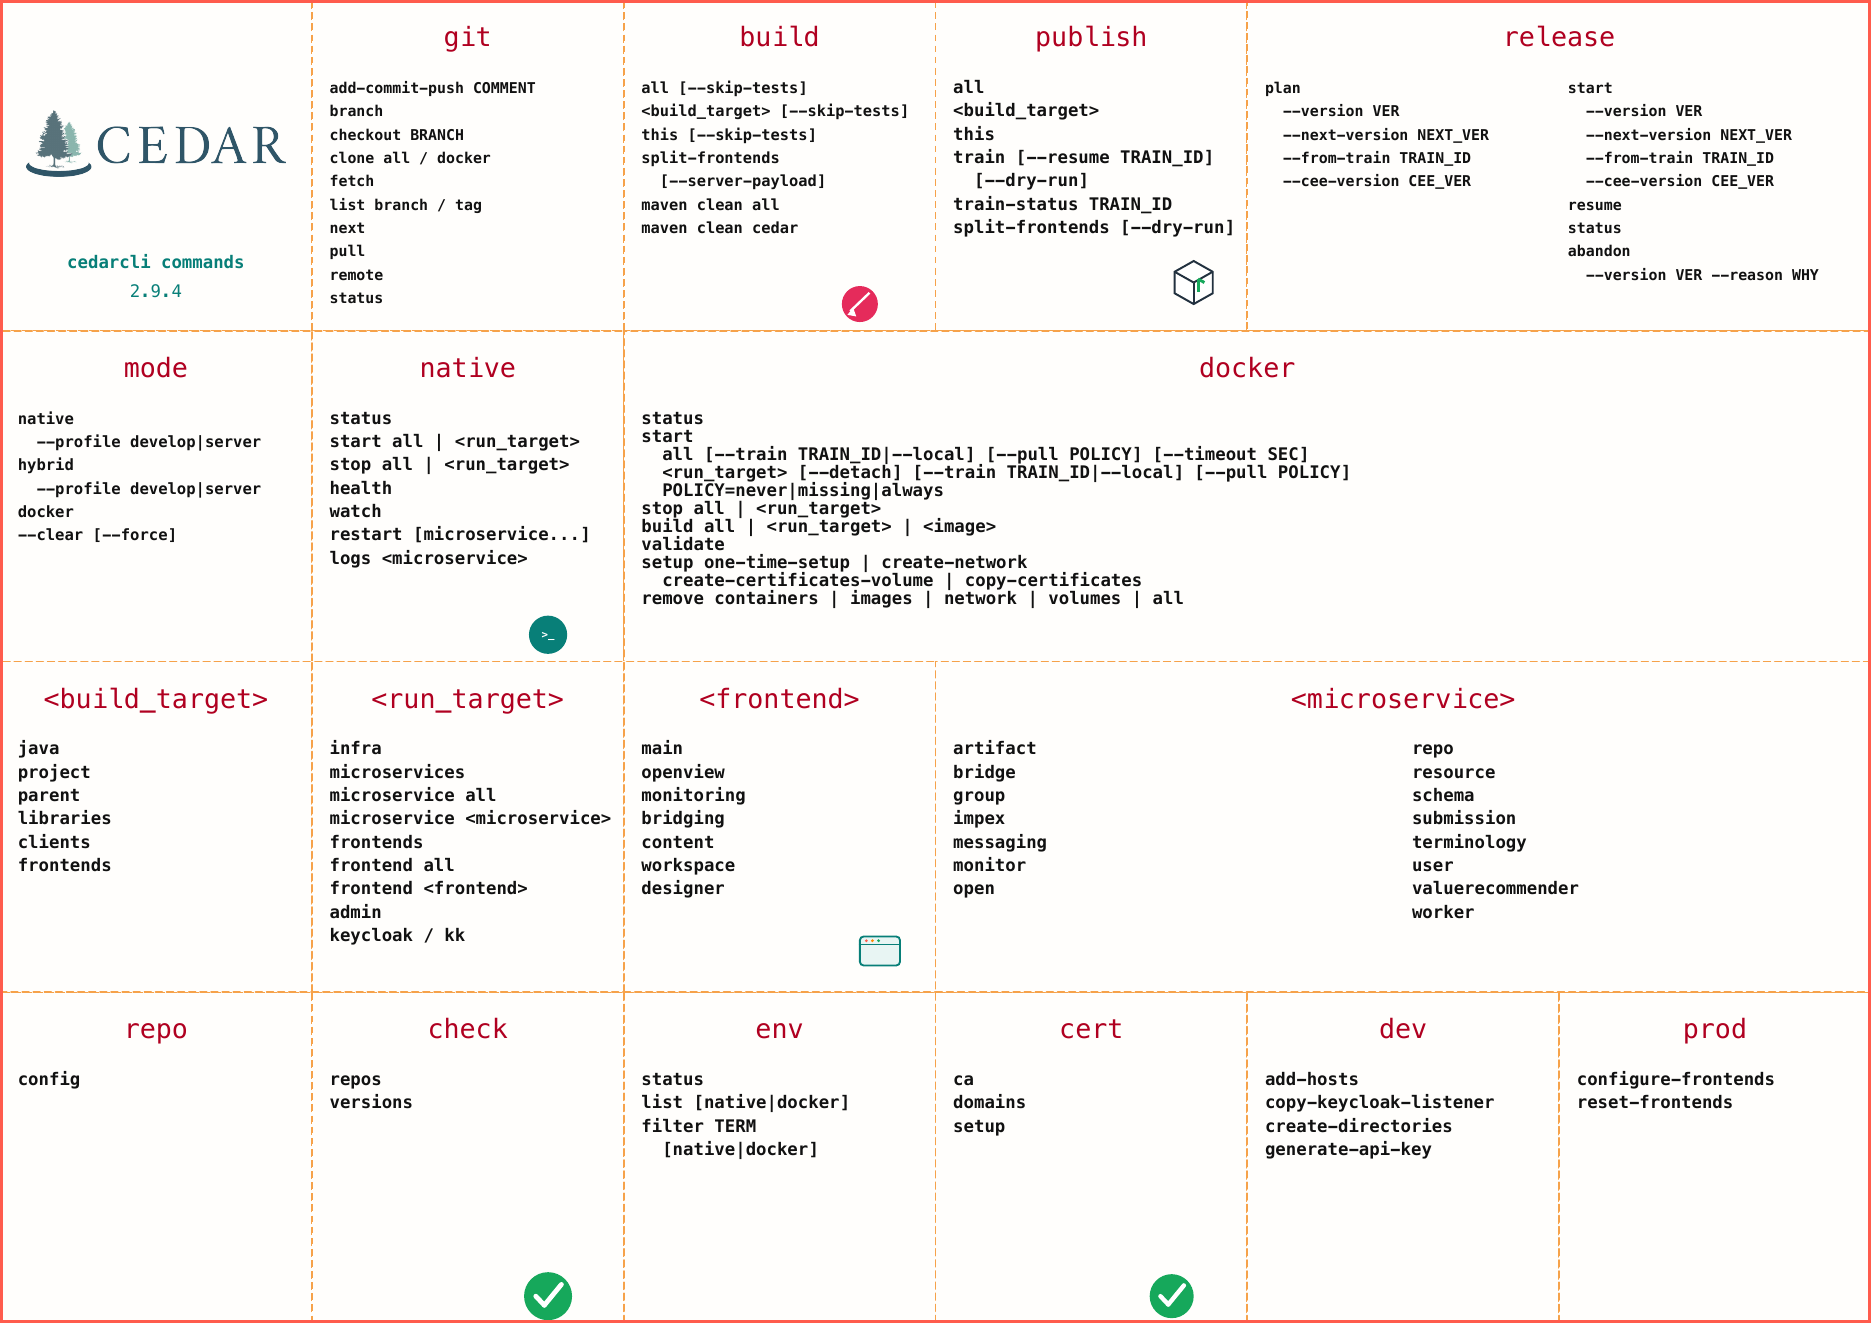
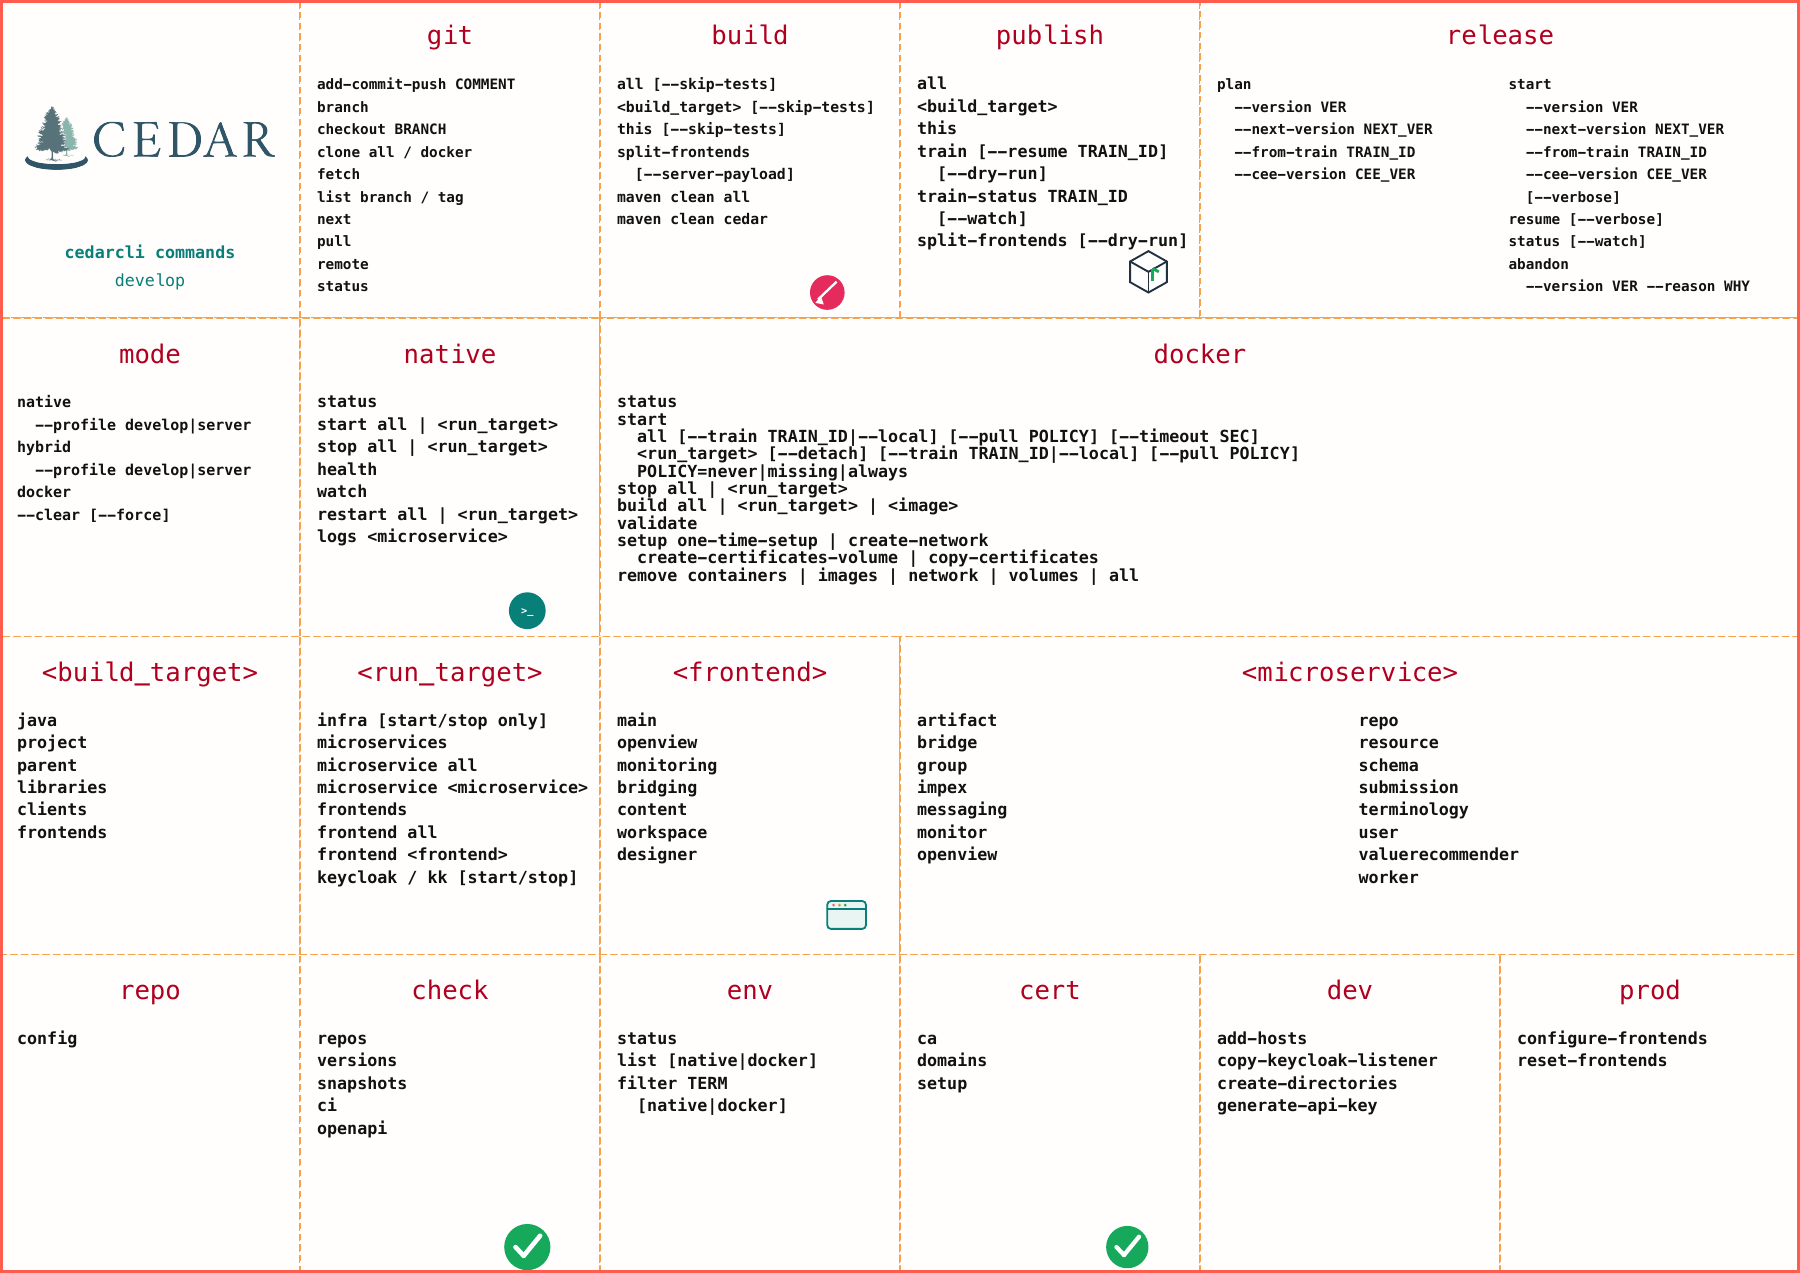
Align native restart targets with start and stop

diff --git a/tests/test_restart_targets.py b/tests/test_restart_targets.py
@@ -1,0 +1,67 @@
+import unittest
+from types import SimpleNamespace
+from unittest.mock import patch
+
+from typer.testing import CliRunner
+
+from org.metadatacenter import native
+from org.metadatacenter.model.CedarMode import CedarMode
+from org.metadatacenter.util.ModeManager import ModeManager
+from org.metadatacenter.worker.NativeWorker import NativeWorker
+
+
+class RestartTargetsTest(unittest.TestCase):
+    def invoke(self, args, expected, mode=CedarMode.NATIVE, code=0):
+        with patch.object(ModeManager, 'require_surface', return_value=mode), \
+                patch.object(NativeWorker, 'restart', return_value=SimpleNamespace(returncode=code)) as worker:
+            result = CliRunner().invoke(native.app, ['restart', *args])
+            if expected is None:
+                self.assertNotEqual(0, result.exit_code, result.output)
+                worker.assert_not_called()
+            else:
+                self.assertEqual(code, result.exit_code, result.output)
+                self.assertEqual(tuple(expected), tuple(worker.call_args.args[0]))
+                worker.assert_called_once()
+
+    def test_each_service_has_the_same_grouped_name_as_start(self):
+        for name in NativeWorker.MICROSERVICES:
+            self.invoke(['microservice', name], [name])
+        for name in NativeWorker.FRONTENDS:
+            self.invoke(['frontend', name.removeprefix('ui-')], [name])
+        self.invoke(['microservice', 'open'], ['openview'])
+
+    def test_group_targets_and_no_argument_compatibility(self):
+        for args in ([], ['all']):
+            self.invoke(args, [])
+        for args in (['microservices'], ['microservice', 'all']):
+            self.invoke(args, NativeWorker.MICROSERVICES)
+        for args in (['frontends'], ['frontend', 'all']):
+            self.invoke(args, NativeWorker.FRONTENDS)
+        self.invoke(['frontend', 'split-frontends'], ['ui-workspace', 'ui-designer'])
+        self.invoke(['repo', 'ui-openview'], ['repo', 'ui-openview'])
+
+    def test_hybrid_allows_only_frontends(self):
+        for args in ([], ['all'], ['microservices'], ['microservice', 'repo'], ['repo'],
+                     ['ui-openview', 'repo']):
+            self.invoke(args, None, CedarMode.HYBRID)
+        self.invoke(['frontend', 'openview'], ['ui-openview'], CedarMode.HYBRID)
+        self.invoke(['frontends'], NativeWorker.FRONTENDS, CedarMode.HYBRID)
+        self.invoke(['ui-workspace'], ['ui-workspace'], CedarMode.HYBRID)
+
+    def test_bad_targets_and_trailing_arguments_never_restart_anything(self):
+        for args in (['invalid'], ['repo', 'invalid'], ['frontend', 'repo'],
+                     ['microservice', 'ui-openview'], ['microservice', 'repo', 'invalid'],
+                     ['infra'], ['backends'], ['frontend'], ['microservice']):
+            self.invoke(args, None)
+
+    def test_failure_status_propagates(self):
+        self.invoke(['microservice', 'repo'], ['repo'], code=7)
+
+    def test_help_exposes_groups_without_executing_a_restart(self):
+        with patch.object(ModeManager, 'require_surface', return_value=CedarMode.NATIVE), \
+                patch.object(NativeWorker, 'restart') as worker:
+            for args in (['--help'], ['microservice', '--help'], ['frontend', '--help']):
+                result = CliRunner().invoke(native.app, ['restart', *args])
+                self.assertEqual(0, result.exit_code, result.output)
+                self.assertNotIn('legacy', result.output)
+            worker.assert_not_called()

diff --git a/org/metadatacenter/restart.py b/org/metadatacenter/restart.py
@@ -1,0 +1,90 @@
+"""Native application restart targets, with the original flat syntax retained."""
+from typing import List
+
+import typer
+from typer.core import TyperGroup
+
+from org.metadatacenter.model.CedarMode import CedarMode
+from org.metadatacenter.util.CliResult import exit_on_failure
+from org.metadatacenter.util.ModeManager import ModeError, ModeManager
+from org.metadatacenter.worker.NativeWorker import NativeWorker
+
+
+class RestartGroup(TyperGroup):
+    def resolve_command(self, ctx, args):
+        # Route the whole legacy list together so a later invalid name cannot
+        # cause a partially executed restart. Grouped targets use normal parsing.
+        if args and args[0] in (*NativeWorker.MICROSERVICES, *NativeWorker.FRONTENDS):
+            return 'legacy', self.get_command(ctx, 'legacy'), args
+        return super().resolve_command(ctx, args)
+
+
+app = typer.Typer(cls=RestartGroup, invoke_without_command=True, no_args_is_help=False)
+microservices = typer.Typer(no_args_is_help=True)
+frontends = typer.Typer(no_args_is_help=True)
+app.add_typer(microservices, name='microservice', help='Restart one Java microservice.')
+app.add_typer(frontends, name='frontend', help='Restart one frontend development server.')
+
+
+def _restart(services):
+    known = set(NativeWorker.MICROSERVICES) | set(NativeWorker.FRONTENDS)
+    unknown = [name for name in services if name not in known]
+    if unknown:
+        typer.echo(f'Unknown native applications: {", ".join(unknown)}', err=True)
+        raise typer.Exit(1)
+    try:
+        mode = ModeManager.require_surface('native')
+        if mode is CedarMode.HYBRID:
+            ModeManager.require_native_frontend_services(services, 'restart')
+    except ModeError as error:
+        typer.echo(str(error), err=True)
+        raise typer.Exit(1) from error
+    exit_on_failure(NativeWorker.restart(services))
+
+
+@app.callback()
+def restart_default(ctx: typer.Context):
+    """Restart applications; infrastructure is left running. No target means all applications."""
+    if ctx.invoked_subcommand is None:
+        _restart(())
+
+
+@app.command('legacy', hidden=True)
+def legacy(services: List[str] = typer.Argument(...)):
+    _restart(services)
+
+
+@app.command('all')
+def all_applications():
+    """Restart all managed applications, keeping infrastructure running."""
+    _restart(())
+
+
+@app.command('microservices')
+@microservices.command('all')
+def all_microservices():
+    _restart(NativeWorker.MICROSERVICES)
+
+
+@app.command('frontends')
+@frontends.command('all')
+def all_frontends():
+    _restart(NativeWorker.FRONTENDS)
+
+
+@frontends.command('split-frontends')
+def split_frontends():
+    _restart(('ui-workspace', 'ui-designer'))
+
+
+def _single_service(name):
+    def command():
+        _restart((name,))
+    return command
+
+
+for _name in NativeWorker.MICROSERVICES:
+    microservices.command(_name)(_single_service(_name))
+microservices.command('open', hidden=True)(_single_service('openview'))
+for _name in NativeWorker.FRONTENDS:
+    frontends.command(_name.removeprefix('ui-'))(_single_service(_name))

diff --git a/org/metadatacenter/native.py b/org/metadatacenter/native.py
@@ -1,9 +1,7 @@
-from typing import List, Optional
-
 import typer
 from rich.console import Console
 
-from org.metadatacenter import start, stop
+from org.metadatacenter import start, stop, restart
 from org.metadatacenter.model.CedarMode import CedarMode
 from org.metadatacenter.util.ModeManager import ModeError, ModeManager
 from org.metadatacenter.util.CliResult import exit_on_failure
@@ -27,6 +25,7 @@ def require_native_mode(ctx: typer.Context):
 
 app.add_typer(start.app, name="start", help="Start native CEDAR components.")
 app.add_typer(stop.app, name="stop", help="Stop native CEDAR components.")
+app.add_typer(restart.app, name="restart", help="Restart native CEDAR applications.")
 
 
 @app.command("status")
@@ -50,17 +49,6 @@ def watch():
     """Continuously refresh native application status."""
     _require_native_backend("watch")
     exit_on_failure(NativeWorker.watch())
-
-
-@app.command("restart")
-def restart(services: Optional[List[str]] = typer.Argument(None)):
-    """Restart all managed applications, or only the named applications."""
-    requested = services or ()
-    _require_known_native_services(requested, "restart")
-    mode = ModeManager.require_surface("native")
-    if mode is CedarMode.HYBRID:
-        _require_native_frontend_services(requested, "restart")
-    exit_on_failure(NativeWorker.restart(requested))
 
 
 @app.command("logs")
@@ -90,25 +78,6 @@ def _require_native_backend(operation):
     except ModeError as error:
         console.print(f"[red]{error}[/red]")
         raise typer.Exit(code=1)
-
-
-def _require_known_native_services(services, operation):
-    """Reject a name no native application answers to.
-
-    The controller takes service names verbatim, so an unknown one reaches it as a service whose
-    jar was never built, and the operator is told to build something that cannot exist. Unlike
-    start and stop, which name each service in their own command, restart takes free text, so the
-    check belongs here.
-    """
-    known = set(NativeWorker.MICROSERVICES) | set(NativeWorker.FRONTENDS)
-    unknown = [service for service in services if service not in known]
-    if not unknown:
-        return
-    console.print(
-        f"[red]Not a native CEDAR application, so nothing to {operation}: "
-        f"{', '.join(unknown)}[/red]")
-    console.print(f"Known applications: {', '.join(sorted(known))}")
-    raise typer.Exit(code=1)
 
 
 def _require_native_frontend_services(services, operation):

diff --git a/tests/test_native_process_control.py b/tests/test_native_process_control.py
@@ -182,13 +182,13 @@ class NativeProcessControlTest(unittest.TestCase):
     @patch.object(ModeManager, "require_surface", return_value=CedarMode.NATIVE)
     @patch.object(NativeWorker, "restart")
     def test_restart_refuses_a_name_no_application_answers_to(self, restart, _surface):
-        """Unlike start and stop, restart takes free text, so it can be handed anything."""
+        """Reject an invalid name before the native controller runs."""
         runner = CliRunner()
 
-        result = runner.invoke(native.app, ["restart", "microservice", "monitor"])
+        result = runner.invoke(native.app, ["restart", "monitor", "unknown-service"])
 
         self.assertEqual(1, result.exit_code, result.output)
-        self.assertIn("microservice", result.output)
+        self.assertIn("unknown-service", result.output)
         restart.assert_not_called()
 
     @patch.object(ModeManager, "require_surface", return_value=CedarMode.NATIVE)

diff --git a/README.md b/README.md
@@ -124,3 +124,11 @@ and the
 [cheat-sheet generator](https://github.com/metadatacenter/cedar-mkdocs/blob/main/tools/generate_cedarcli_cheatsheet.py).
 Regenerate `assets/docs/cedar-cli.pdf` and `assets/docs/cedar-cli.png` rather than editing those
 artifacts directly.
+
+## Native Restart Targets
+
+Use `cedarcli native restart microservice repo` or `restart frontend openview` for one application,
+and `restart microservices` or `restart frontends` for a group. `restart frontend split-frontends`
+selects Workspace and Designer. `restart all` restarts all managed applications and leaves
+infrastructure running; bare `restart` retains that behavior. The old flat syntax, such as
+`restart repo ui-openview`, remains supported. Hybrid mode permits only frontend targets.
